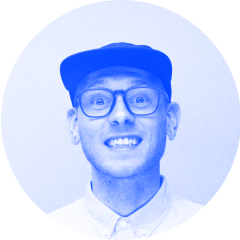
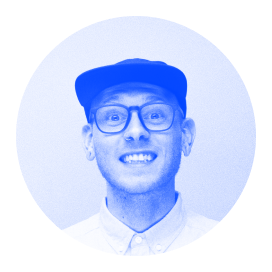
info updates

Changed region(s): [[0.0, 0.0, 1.0, 1.0], [0.0292, 0.4083, 0.0583, 0.4375]]

diff --git a/src/routes/info.svelte b/src/routes/info.svelte
@@ -14,22 +14,17 @@
         <h2>
             <div class="svg-wrap">
                 <svg width="24" height="24" viewBox="0 0 24 24" fill="none" xmlns="http://www.w3.org/2000/svg">
-                    <g clip-path="url(#clip0_1543_5427)">
-                    <path d="M12 0C8.68629 0 6 2.68629 6 6C6 9.31371 8.68629 12 12 12C15.3137 12 18 9.31371 18 6C18 2.68629 15.3137 0 12 0Z" fill="#0044FF"/>
-                    <path d="M7 14C4.23858 14 2 16.2386 2 19C2 21.7614 4.23858 24 7 24H17C19.7614 24 22 21.7614 22 19C22 16.2386 19.7614 14 17 14H7Z" fill="#0044FF"/>
-                    </g>
-                    <defs>
-                    <clipPath id="clip0_1543_5427">
-                    <rect width="24" height="24" fill="white"/>
-                    </clipPath>
-                    </defs>
+                    <use href="icons.svg#person-heading"></use>
                 </svg>
             </div>
             About me
         </h2>
         
         <p class="body-large">
-            I'm Danny McClain, a husband & father of two who enjoys homesteading with my family in middle Tennessee. I'm just as likely to be found listening to <a href="https://darkdescentrecords.bandcamp.com/album/hidden-history-of-the-human-race" target="_blank">Blood Incantation</a> as I am <a href="https://acemo.bandcamp.com/album/i-want-to-believe" target="_blank">AceMo</a>.
+            I'm Danny McClain, a husband and father of two who enjoys homesteading with my family in Middle Tennessee.
+        </p>
+        <p>
+            I love riding bicycles and goofing around outside. I'm just as likely to be found listening to <a href="https://darkdescentrecords.bandcamp.com/album/hidden-history-of-the-human-race" target="_blank">Blood Incantation</a> as I am <a href="https://acemo.bandcamp.com/album/i-want-to-believe" target="_blank">AceMo</a>.
         </p>
     </section>
 
@@ -37,7 +32,7 @@
         <h2>
             <div class="svg-wrap">
                 <svg width="24" height="24" viewBox="0 0 24 24" fill="none" xmlns="http://www.w3.org/2000/svg">
-                <path fill-rule="evenodd" clip-rule="evenodd" d="M10.5 1C5.25329 1 1 5.25329 1 10.5C1 15.7467 5.25329 20 10.5 20C12.3997 20 14.1691 19.4424 15.6536 18.482L19.5858 22.4142C20.3668 23.1953 21.6332 23.1953 22.4142 22.4142C23.1953 21.6332 23.1953 20.3668 22.4142 19.5858L18.482 15.6536C19.4424 14.1691 20 12.3997 20 10.5C20 5.25329 15.7467 1 10.5 1ZM5 10.5C5 7.46243 7.46243 5 10.5 5C13.5376 5 16 7.46243 16 10.5C16 13.5376 13.5376 16 10.5 16C7.46243 16 5 13.5376 5 10.5Z" fill="#0044FF"/>
+                    <use href="icons.svg#search-heading"></use>
                 </svg>
             </div>
             Find me out there
@@ -52,6 +47,47 @@
             <li><Button style='grid' name='linkedin' url='#' label='Linkedin'></Button></li>
             <li><Button style='grid' name='readcv' url='#' label='Read.cv'></Button></li>
         </ul>
+    </section>
+
+    <section class="extended-reading">
+        <h2>
+            <div class="svg-wrap">
+                <svg width="24" height="24" viewBox="0 0 24 24" fill="none" xmlns="http://www.w3.org/2000/svg">
+                    <use href="icons.svg#book-heading"></use>
+                </svg>
+            </div>
+            Extended reading
+        </h2>
+    
+        <p>
+            I've been designing interfaces (websites, apps, diGiTaL eXpEriEnCeS, etc.) for over a decade. I believe design is a craft, and I super care about every little detail (but I'm also experienced enough to know when to compromise). I've always gravitated towards, and had the most fun in, the blurry area where design meets code—so I'm just as happy mocking something up with HTML/CSS/JS as I am defining constraints and creating variants in Figma.
+        </p>
+
+        <p>
+            Because of my penchant for neatness, I really fell in love working on design systems. While I enjoy—and obsess over—the finer points of visual design, component architecture and organization, and maintaining high standards throughout, the thing that I really love about design systems is the impact my work can have for other designers and developers. For me, it's thrilling when <em>my</em> work makes <em>someone else's</em> work easier, faster, or better. And when your teammates are your “customers,” you get this magical gift of seeing your efforts turn to value <strong>directly</strong>. Hearing from someone you see everyday how much better their life is (in whatever small way) because of your work definitely hits me in the feels differently than delivering a top-tier experience to customers at large—that's still great too though!
+        </p>
+    </section>
+
+    <section>
+        <h2>
+            <div class="svg-wrap">
+                <svg width="24" height="24" viewBox="0 0 24 24" fill="none" xmlns="http://www.w3.org/2000/svg">
+                    <use href="icons.svg#heart-heading"></use>
+                </svg>
+            </div>
+            Parting thoughts
+        </h2>
+    
+        <p class="body-large">
+            The web is a wild place, and I strive for my impact to make it a more honest, more accessible, and more enjoyable place to be.
+        </p>
+
+        <p>
+            Have fun and stay safe!
+        </p>
+        <svg width="24" height="24" viewBox="0 0 24 24" fill="none" xmlns="http://www.w3.org/2000/svg">
+            <use href="icons.svg#smile"></use>
+        </svg>
     </section>
 </div>
 
@@ -87,6 +123,7 @@
         font-weight: 500;
         font-size: 1.25rem;
         line-height: 2rem;
+        margin-bottom: 1rem;
     }
     p a {
         font-weight: 600;
@@ -97,23 +134,17 @@
         transition: border-color 125ms linear, background-color 125ms linear, color 125ms linear;
     }
     p a:hover {
-        border-radius: 4px;
+        border-radius: 8px;
         border-color: var(--accent);
         background-color: var(--accent);
         color: white;
     }
-    /* ul {
-        list-style: none;
-        display: flex;
-        flex-direction: row;
-        flex-wrap: wrap;
-        justify-content: flex-start;
-        align-items: center;
+    p:not(:last-child) {
+        margin-bottom: 1rem;
     }
-    ul li {
-        margin-right: 20px;
-        margin-bottom: 20px;
-    } */
+    .extended-reading p {
+        text-align: left;
+    }
     ul {
         list-style: none;
         display: grid;
@@ -122,5 +153,11 @@
     }
     ul li {
         width: 100%;
+    }
+    em {
+        font-style: italic;
+    }
+    strong {
+        font-weight: 900;
     }
 </style>

diff --git a/src/routes/index.svelte b/src/routes/index.svelte
@@ -12,7 +12,7 @@
     
     <section class="intro">
         <img src="portrait.png" alt="A portriat of me by Cymone Wilder" />
-        <h1>I'm a multidisciplinary designer currently focusing on design systems & icon sets.</h1>
+        <h1>I'm a multidisciplinary designer currently focusing on design systems and icon sets.</h1>
         
         <p>I like to design systematically and put an emphasis on tidiness.</p>
         
@@ -30,8 +30,8 @@
 
 <style>
     img {
-        width: 120px;
-        height: 120px;
+        width: 136px;
+        height: 136px;
         margin-bottom: 2rem;
     }
     h1 {
@@ -39,7 +39,6 @@
         font-weight: 900;
         font-size: 2rem;
         line-height: 2.5rem;
-        text-align: center;
         letter-spacing: -0.02em;
         margin-bottom: 1rem;
     }
@@ -62,9 +61,9 @@
         grid-gap: 1.25rem;
     }
 
-    @media screen and (min-width:768px) {
+    /* @media screen and (min-width:768px) {
         .grid {
             grid-template-columns: 1fr 1fr;
         }
-    }
+    } */
 </style>
